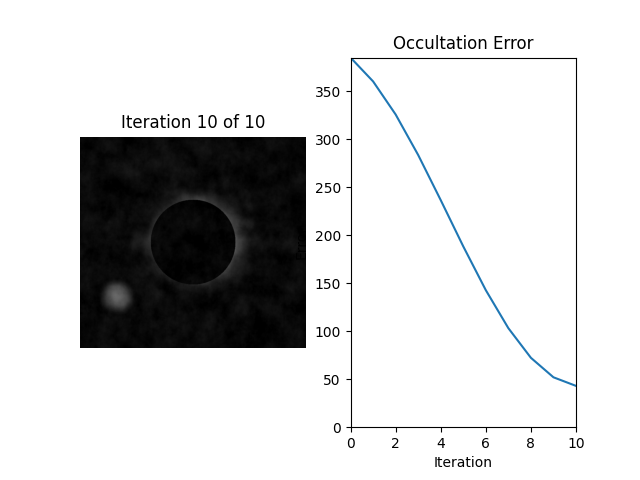
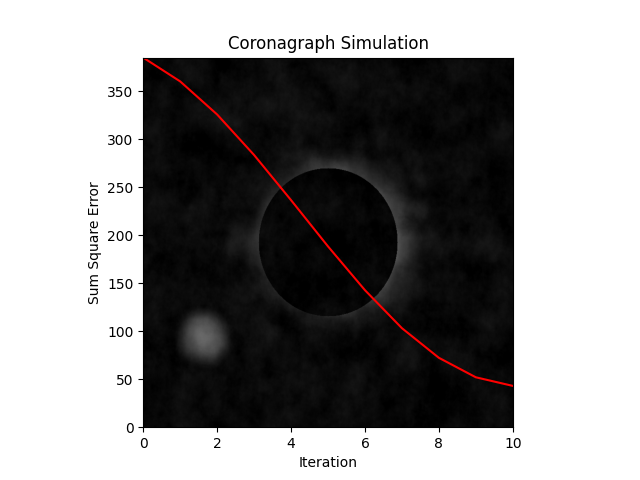
com

diff --git a/Lab 6/V2/lab6V2_jaskara8.py b/Lab 6/V2/lab6V2_jaskara8.py
@@ -206,23 +206,21 @@ def saveFrames(images, errors):
     maxErrors = max(errors)
     
     for k in range(maxIters + 1):
+        
+        plt.plot(errors[:k+1], color='red')
+        plt.xlabel("Iteration")
+        plt.ylabel("Sum Square Error")
+        plt.xlim(0, maxIters)
+        plt.ylim(0, maxErrors)
+        
         image[:, :, 0] = images[k]
         image[:, :, 1] = images[k]
         image[:, :, 2] = images[k]
         
-        plt.subplot(1, 2, 1)
-        plt.imshow(image)
-        plt.title("Iteration " + str(k) + " of " + str(maxIters))
-        plt.axis('off')
+        plt.imshow(image, extent=(0, maxIters, 0, maxErrors))
+        plt.gca().set_aspect(maxIters / maxErrors)
         
-        plt.subplot(1, 2, 2)
-        plt.plot(errors[:k+1])
-        plt.title("Occultation Error")
-        plt.xlabel("Iteration")
-        plt.ylabel("Error")
-        plt.xlim(0, maxIters)
-        plt.ylim(0, maxErrors)
-        
+        plt.title("Coronagraph Simulation")
         plt.savefig('coronagraph' + str(k) + '.png')
         plt.show()
 
